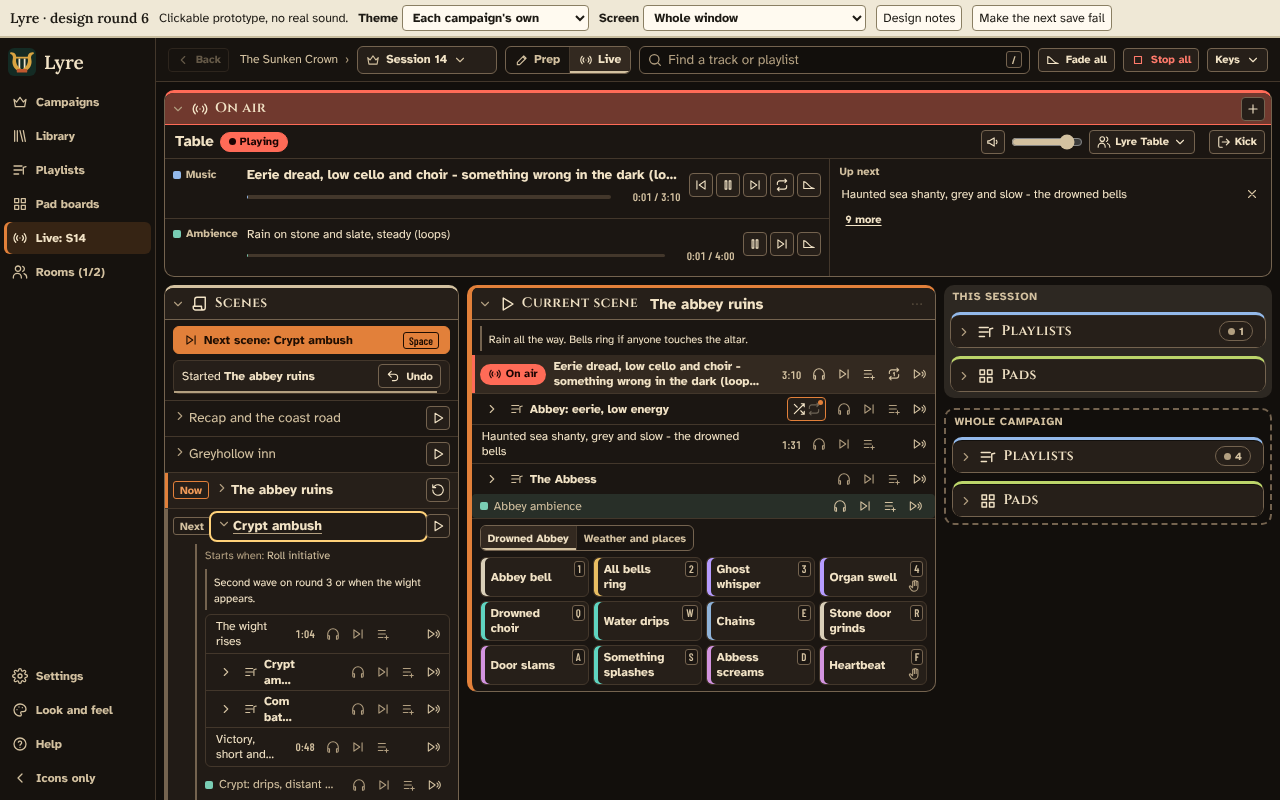
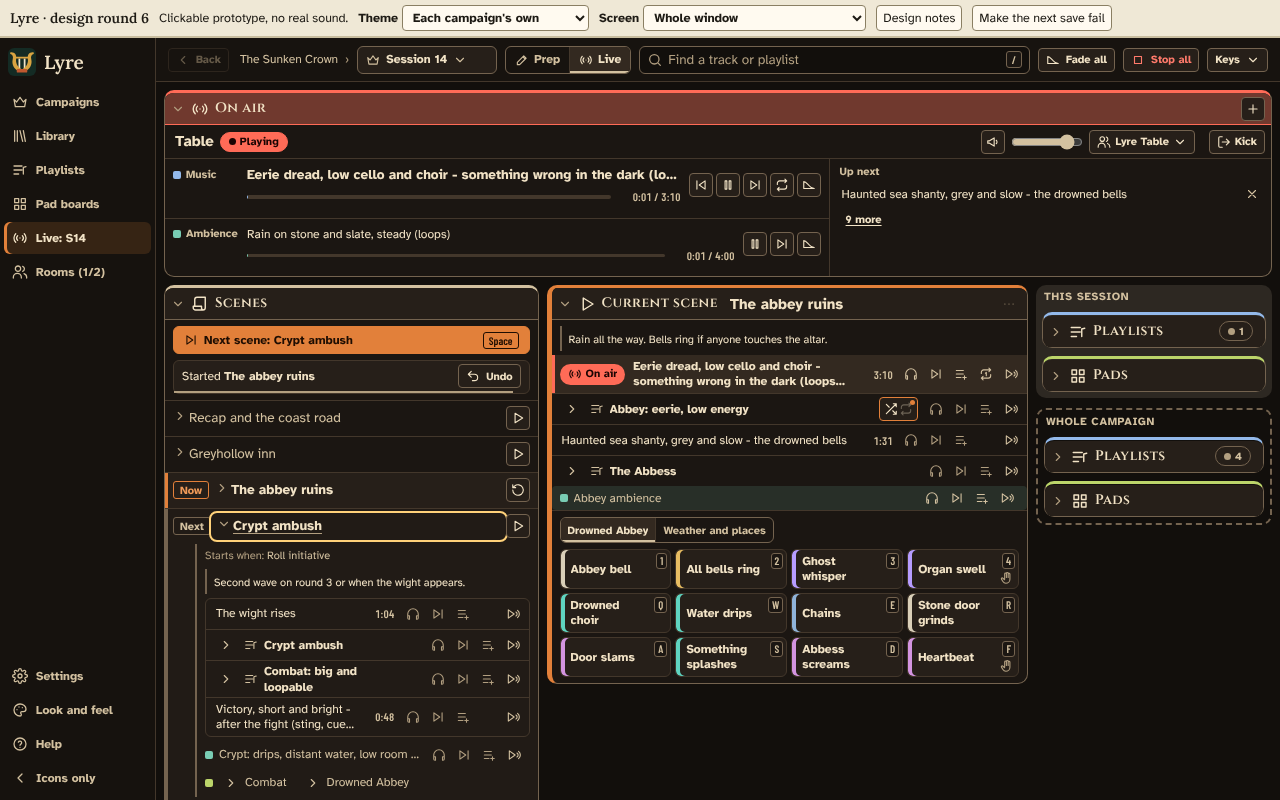
Prototype: names in an unfolded scene and Current scene readable at 1280 and 960
While every tray box is folded, the trays' column is only as wide as its folded
headers, so Scenes and Current scene get the width. A name keeps at least 14
characters (the row's buttons go under it rather than squeeze it), wraps to two
lines, and shows whole on hover and on keyboard focus (UX-6). Live and sweep
specs: 302 passed; Live's words do not rise.

Claude-Session: https://claude.ai/code/session_01UHqfDonG5GV2atUjrDtHdX

Changed region(s): [[0.1562, 0.3438, 0.9062, 1.0]]

diff --git a/design/prototype/lyre-prototype.html b/design/prototype/lyre-prototype.html
@@ -2344,6 +2344,16 @@ button.lv-sc-name > .ellipsis { display: block; min-width: 0; }
   .lv-top .lv-btxt { display: none; }
   .lv-top [data-act="lvfade"], .lv-top [data-act="lvstop"] { width: var(--ctl-s); padding: 0; }
 }
+/* Part 6 follow-up: names in Scenes and Current scene stay readable at 1280 and 960 (UX-6: a name wraps to two lines,
+   then shows whole on hover (its title) and while its row has keyboard focus). While every box in the trays is folded,
+   the trays' column is only as wide as its folded headers need, and Scenes and Current scene get the room. A name keeps
+   at least 14 characters' width: below that, the row's buttons go under the name instead of squeezing it. */
+.lv-cols.c3:not(:has(.lv-c-trays .pane:not(.collapsed))) { grid-template-columns: minmax(0, 35fr) minmax(0, 45fr) minmax(236px, 20fr); }
+.lv-trk-r { flex-wrap: wrap; row-gap: 0; }
+.lv-trk-r > .lv-trk-t, .lv-trk-r > .lv-pli-n { flex: 1 1 14ch; min-width: 14ch; }
+.lv-trk-r > .lv-trk-acts { margin-left: auto; }
+.lv-trk-t > span, .lv-pli-n > b.ellipsis { overflow-wrap: break-word; }
+.lv-trk-r:focus-within .lv-trk-t > span, .lv-trk-r:focus-within .lv-pli-n > b.ellipsis { -webkit-line-clamp: unset; display: block; }
 
 </style>
 </head>

diff --git a/design/prototype/src/views/live.css b/design/prototype/src/views/live.css
@@ -566,3 +566,13 @@ button.lv-sc-name > .ellipsis { display: block; min-width: 0; }
   .lv-top .lv-btxt { display: none; }
   .lv-top [data-act="lvfade"], .lv-top [data-act="lvstop"] { width: var(--ctl-s); padding: 0; }
 }
+/* Part 6 follow-up: names in Scenes and Current scene stay readable at 1280 and 960 (UX-6: a name wraps to two lines,
+   then shows whole on hover (its title) and while its row has keyboard focus). While every box in the trays is folded,
+   the trays' column is only as wide as its folded headers need, and Scenes and Current scene get the room. A name keeps
+   at least 14 characters' width: below that, the row's buttons go under the name instead of squeezing it. */
+.lv-cols.c3:not(:has(.lv-c-trays .pane:not(.collapsed))) { grid-template-columns: minmax(0, 35fr) minmax(0, 45fr) minmax(236px, 20fr); }
+.lv-trk-r { flex-wrap: wrap; row-gap: 0; }
+.lv-trk-r > .lv-trk-t, .lv-trk-r > .lv-pli-n { flex: 1 1 14ch; min-width: 14ch; }
+.lv-trk-r > .lv-trk-acts { margin-left: auto; }
+.lv-trk-t > span, .lv-pli-n > b.ellipsis { overflow-wrap: break-word; }
+.lv-trk-r:focus-within .lv-trk-t > span, .lv-trk-r:focus-within .lv-pli-n > b.ellipsis { -webkit-line-clamp: unset; display: block; }

diff --git a/design/prototype/ROUND6.md b/design/prototype/ROUND6.md
@@ -739,7 +739,12 @@ page now has the pop-up's status too).
 | 6 | **Find a track or playlist** (the field's name; it fits at 960 because, below 1100 px of app, Fade all and Stop all are icons, named on hover and read out; and the session button shows "Session 14" at every width, its name on hover and read out, so the trail reads Campaign › Session). Results: **Playlists** (by name or notes; with tags picked, those with a track that has them all; the Music, Ambience and FX filter applies), then **Tracks**, each under a small heading, each row with Preview, Play next, Add to queue and Play on air; a playlist unfolds to its tracks as in the playlist boxes. `/` focuses it, Esc clears, a second Esc closes. | Nik's words. |
 | 7 | **An unfolded scene in Scenes has the full row buttons** on every track and playlist, as Current scene: Preview, Play next, Add to queue (Repeat one, a playlist's play order), Play on air, greyed at rest, same names and icons. **The ambience line too** (Great hall was an ambience, so it had only Preview), in Scenes and in Current scene. In a scene that is not running, **Play on air plays that item and does not start the scene**: a track plays now in the room (Current scene's To:), and the room's list carries on after it, as from Find; a playlist plays from its first track in the scene's order for it; an ambience becomes the room's ambience. Scenes still marks the running scene Now, Current scene does not change, and the row played is marked On air in the unfolded scene. On air shows that track (by the scene's name for it) in the room's Music, with Up next carrying on with the running scene's music; in Live the Now playing bar shows only a preview, so it does not change; on a Prep screen afterwards its row reads "Scene: Crypt ambush (Session 14)" as where the track came from. **Ambience Play next and Add to queue** put it in the room's "next ambience" list, shown at the bottom of Up next as "Ambience next: …" with ×; Next on the room's ambience plays it (an ambience loops until changed, so it cannot follow on by itself). Not saved; a new scene clears it like the rest (its Undo brings it back). Effects keep Preview and Play on air only. | Nik's words. Start stays the only thing that plays a scene. |
 
-Also: the help drafts say On air is at the top, Find a track or playlist, Alt+1 to Alt+7 from On air, Back, playing
+Also: names in Scenes and Current scene stay readable at 1280 and 960. While every tray box is folded, the trays'
+column is only as wide as its folded headers (35 : 45 : 20, at least 236 px), so Scenes and Current scene get the room;
+opening a tray box gives the columns part 4's widths back. A name keeps at least 14 characters' width (the row's
+buttons go under it rather than squeeze it), wraps to two lines and then shows whole on hover (its title) and while its
+row has keyboard focus (UX-6). Words do not rise (scene unfolded at 960: 226 → 222); the Live and sweep specs pass.
+The help drafts say On air is at the top, Find a track or playlist, Alt+1 to Alt+7 from On air, Back, playing
 from an unfolded scene, and Ambience next (`10-live.md`, `15-up-next.md`, `03-add-music.md`). The session button still
 reads out the campaign's name, as it is read on its own when it has focus.
 
